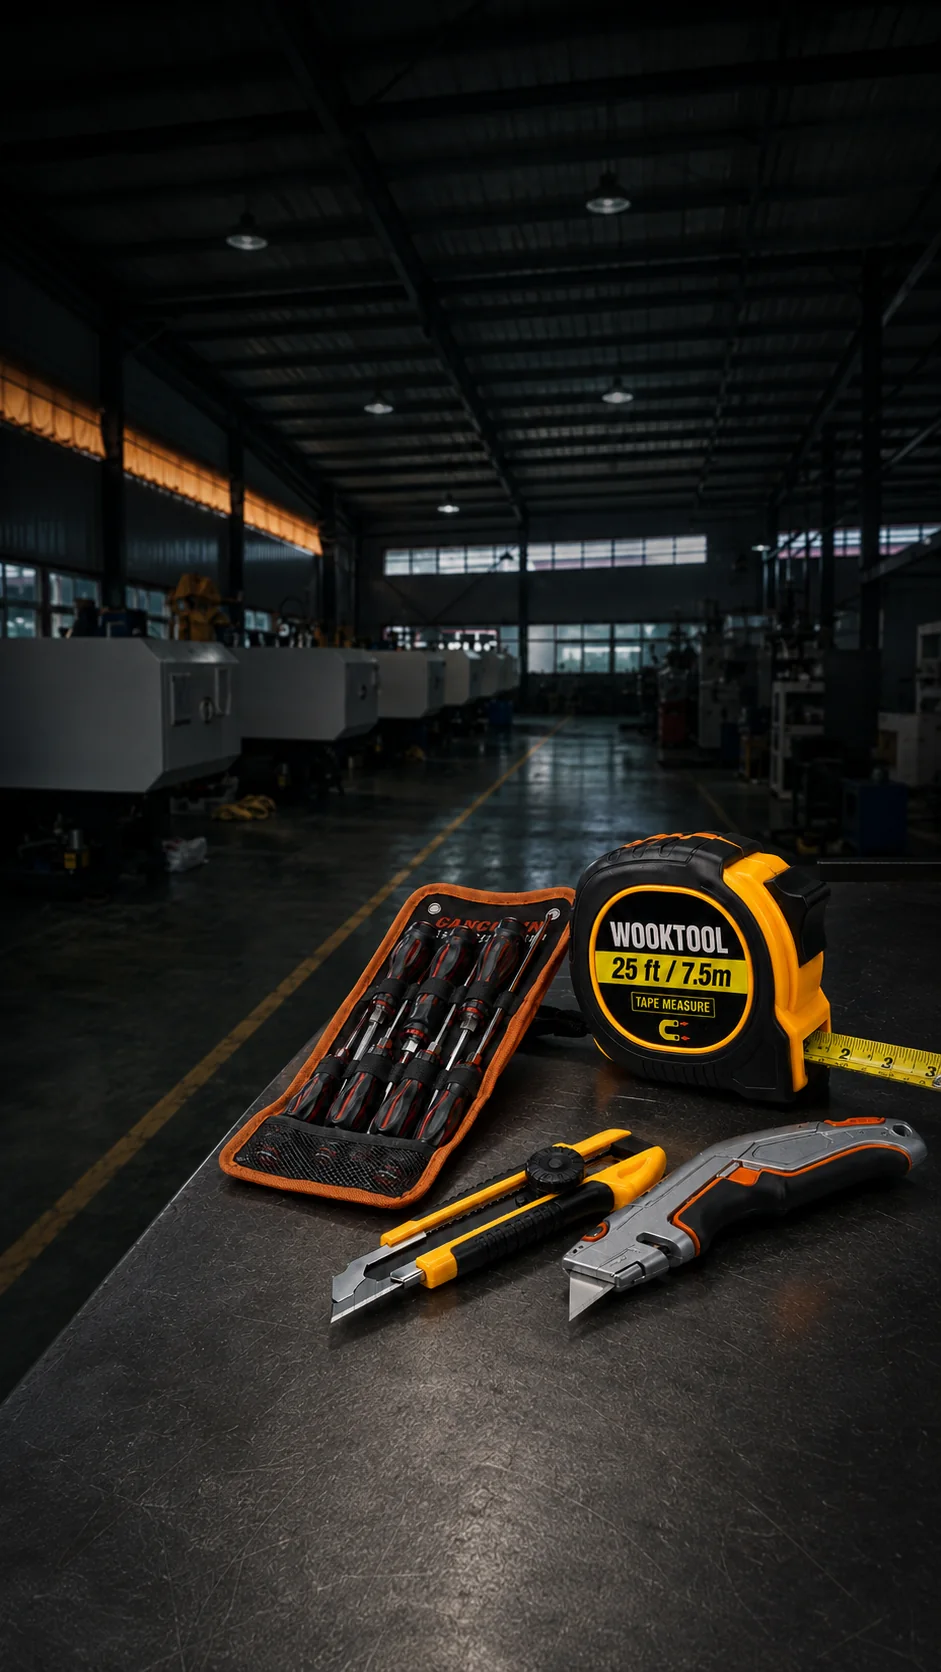
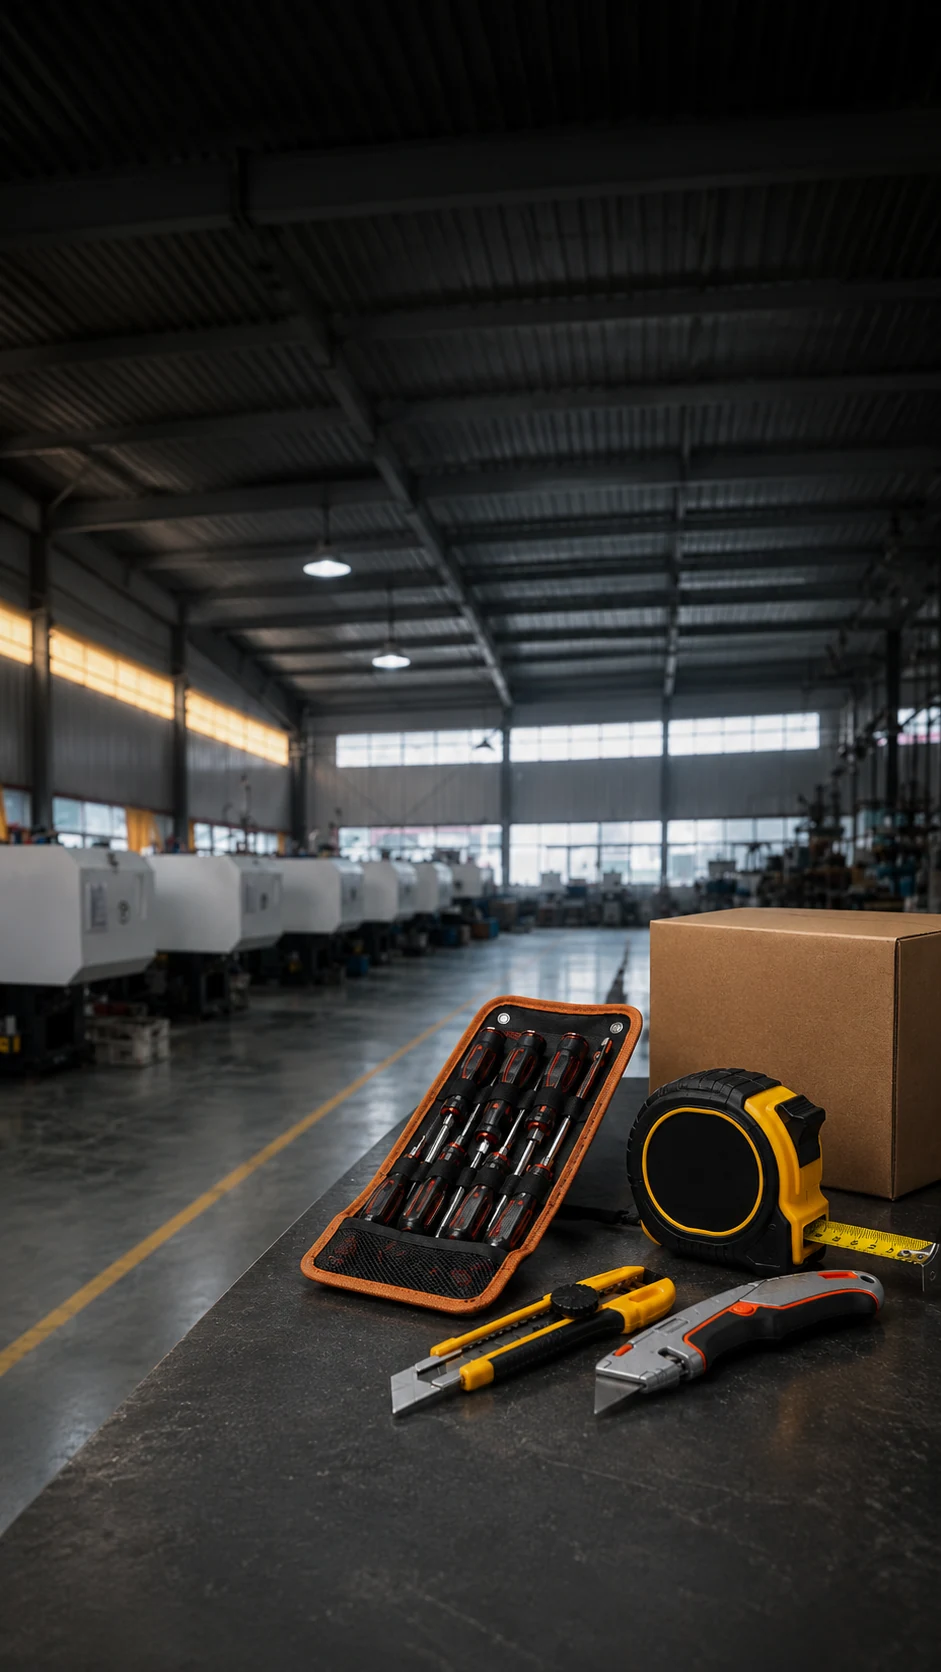
Update homepage hero images

diff --git a/src/styles/global.css b/src/styles/global.css
@@ -194,8 +194,8 @@ main {
   position: absolute;
   inset: 0;
   background:
-    linear-gradient(90deg, rgba(4, 8, 12, 0.9) 0%, rgba(9, 14, 20, 0.76) 34%, rgba(9, 14, 20, 0.28) 62%, rgba(4, 8, 12, 0.08) 100%),
-    linear-gradient(180deg, rgba(4, 8, 12, 0.08), rgba(4, 8, 12, 0.24));
+    linear-gradient(90deg, rgba(4, 8, 12, 0.74) 0%, rgba(9, 14, 20, 0.58) 34%, rgba(9, 14, 20, 0.18) 62%, rgba(4, 8, 12, 0.04) 100%),
+    linear-gradient(180deg, rgba(4, 8, 12, 0.04), rgba(4, 8, 12, 0.14));
 }
 
 .hero-inner {
@@ -1319,7 +1319,7 @@ small,
 
   .hero-overlay {
     background:
-      linear-gradient(180deg, rgba(4, 8, 12, 0.9) 0%, rgba(4, 8, 12, 0.74) 34%, rgba(4, 8, 12, 0.34) 64%, rgba(4, 8, 12, 0.08) 100%);
+      linear-gradient(180deg, rgba(4, 8, 12, 0.58) 0%, rgba(4, 8, 12, 0.42) 34%, rgba(4, 8, 12, 0.18) 64%, rgba(4, 8, 12, 0.04) 100%);
   }
 
   .hero-inner {